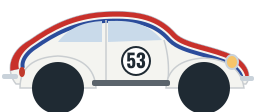
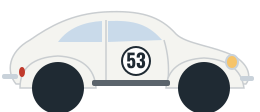
Remove Herbie's stripes and add a drive_on setting
Herbie's racing stripes run over the middle of the top, so they do not
show from the side. The car is now plain white with the number 53 on
the door.

drive_on in town.json sets which side of the road cars drive on:
"right" (the default, as before) or "left". With "left", the near
lane drives right to left and the far lane left to right. The README
previews follow the setting.

Claude-Session: https://claude.ai/code/session_01F1XyeJbkdn1kDtDDVeB88k

Changed region(s): [[0.0308, 0.0804, 0.9846, 0.6964]]

diff --git a/tools/riverside/sprites.py b/tools/riverside/sprites.py
@@ -272,22 +272,14 @@ def write(out):
                 + wells([(66, 84), (232, 84)], 24))
     save(delorean, "0 0 300 106", 300, 106, "car_delorean.png")
 
-    # Herbie, the Love Bug from the Disney movies: a white VW Beetle with red,
-    # white, and blue racing stripes over the top and the number 53 in a circle on
-    # the door. The stripes are drawn as wide lines along the top edge of the body,
-    # cut off by the body shape, so only the side of each stripe shows. The left
-    # image is drawn again instead of mirrored, so the number does not read
-    # backward. A town must list it in "cars"; it is not on by default.
+    # Herbie, the Love Bug from the Disney movies: a white VW Beetle with the
+    # number 53 in a circle on the door. The racing stripes run over the middle of
+    # the top, so they do not show from the side. The left image is drawn again
+    # instead of mirrored, so the number does not read backward. A town must list it in "cars"; it is not on by default.
     def herbie(left):
         HB, HBD, CHROME = "#F4F4F0", "#C9CDD0", "#C9D2DA"
         body = "M16,84 C6,72 8,52 30,40 C50,26 72,14 104,12 C140,10 160,16 176,34 C186,44 214,46 234,56 C248,64 252,76 246,84 Z"
-        s = (f'<defs><clipPath id="herbie_body"><path d="{body}"/></clipPath></defs>'
-             f'<path d="{body}" fill="{HB}" stroke="{HBD}" stroke-width="1.5"/>'
-             # The red, white, and blue stripes over the top, seen from the side
-             f'<g clip-path="url(#herbie_body)" fill="none">'
-             f'<path d="M14,70 C10,52 30,40 30,40 C50,26 72,14 104,12 C140,10 160,16 176,34 C186,44 214,46 234,56 C248,64 252,76 250,80" stroke="#2B4C9B" stroke-width="22"/>'
-             f'<path d="M14,70 C10,52 30,40 30,40 C50,26 72,14 104,12 C140,10 160,16 176,34 C186,44 214,46 234,56 C248,64 252,76 250,80" stroke="{HB}" stroke-width="14"/>'
-             f'<path d="M14,70 C10,52 30,40 30,40 C50,26 72,14 104,12 C140,10 160,16 176,34 C186,44 214,46 234,56 C248,64 252,76 250,80" stroke="#C8312B" stroke-width="10"/></g>'
+        s = (f'<path d="{body}" fill="{HB}" stroke="{HBD}" stroke-width="1.5"/>'
              f'<path d="M58,42 C68,28 84,22 102,21 L102,42 Z" fill="{GLASS}"/>'
              f'<path d="M108,21 C134,20 148,24 162,40 L108,42 Z" fill="{GLASS}"/>'
              f'<path d="M106,20 L106,80 M164,40 Q170,60 168,80" stroke="{HBD}" stroke-width="1.5" fill="none"/>'

diff --git a/tools/riverside/previews.py b/tools/riverside/previews.py
@@ -119,8 +119,10 @@ def preview(town, layers, images, pal, season, hour, temp, cond, section, fx=Non
     cars = town["cars"]
     far_car = "truck" if "truck" in cars else cars[-1]
     near_car = near_car if near_car in cars else cars[0]
-    paste_car(im, images, far_car, 1150, 1002, 0.86, left=True)
-    paste_car(im, images, near_car, 420, 1072, 1.0)
+    # With drive_on "right", the near lane drives to the right and the far lane to the left
+    near_left = town["drive_on"] == "left"
+    paste_car(im, images, far_car, 1150, 1002, 0.86, left=not near_left)
+    paste_car(im, images, near_car, 420, 1072, 1.0, left=near_left)
     if fx and (fx != "leaves" or town["extras"]["falling_leaves"]):
         im.alpha_composite(Image.open(os.path.join(images, f"{fx}.png")).convert("RGBA").resize((1920, 1080)))
     # The panel at its first position in m.infoSpots

diff --git a/tools/generate_images.py b/tools/generate_images.py
@@ -96,6 +96,7 @@ def runtime_config(town, images):
         "title": town["title"], "lat": str(town["lat"]), "lon": str(town["lon"]),
         "temperatureUnit": "celsius" if town["temperature"] == "C" else "fahrenheit",
         "clock24": town["clock"] == "24h", "hemisphere": town["hemisphere"],
+        "driveOn": town["drive_on"],
         "sections": len(town["sections"]), "cars": town["cars"], "pets": pets,
         "parkedCarX": town["parked_car_x"], "radioLight": radio_light(town),
         "airplane": ex["airplane"], "fireflies": ex["fireflies"], "fallingLeaves": ex["falling_leaves"],

diff --git a/tools/riverside/config.py b/tools/riverside/config.py
@@ -160,6 +160,7 @@ def fill(data):
     town["temperature"] = units.get("temperature", "F")
     town["clock"] = units.get("clock", "12h")
     town["hemisphere"] = data.get("hemisphere", "north")
+    town["drive_on"] = data.get("drive_on", "right")
     town["cars"] = data.get("cars", CARS)
     town["extras"] = dict(EXTRAS, **data.get("extras", {}))
     # The radio station on the hill beside the river

diff --git a/README.md b/README.md
@@ -44,7 +44,7 @@ These images are drawn by `tools/generate_images.py` from the same artwork the s
 - Six cars: a sports car in the style of a Bugatti, a sedan, a VW dune buggy with a green arch over the seats, a van, a Jeep, and an old truck. Each has its own speed, and the wheels spin at a rate that matches it. The sports car is the fastest. `town.json` can choose which cars drive by, and can add two more cars: the DeLorean time machine from the first Back to the Future movie, and Herbie, the Love Bug.
 - As options: bikes parked in front of shops and in bike racks, two bikes parked on the hills in the background, old-fashioned street lights that light up at dusk and night, and a radio station on the hill beside the river, with a tall red tower whose light blinks at dusk and night.
 - Cats, dogs, and guinea pigs on the sidewalk, chosen in `town.json`. Cats come in five colors and two sizes, and there are eight kinds of dogs. They are placed at random spots each time the screensaver starts.
-- Two lanes. The near lane drives left to right at full size. The far lane drives right to left and draws the cars slightly smaller.
+- Two lanes. The near lane draws the cars at full size, and the far lane draws them slightly smaller. Cars drive on the right by default, so the near lane drives left to right and the far lane right to left. `drive_on` in `town.json` can make them drive on the left instead.
 - A small Cessna airplane flies across the sky about every 1 to 3 minutes, in either direction. It flies at the distance of the far mountains, so it is small and its speed matches that distance: it takes about 17 seconds to cross the screen. At dusk and night its wingtip light is on, green when it flies right and red when it flies left, as on a real plane (green is on the right wingtip and red on the left). A white tail light blinks. At night both lights are brighter, with a wider glow. It does not fly in rain, snow, fog, or thunderstorms.
 - Weather from [Open-Meteo](https://open-meteo.com/), refreshed every 15 minutes, in Fahrenheit or Celsius. No API key is needed.
 - A 12 hour or 24 hour clock.
@@ -145,11 +145,12 @@ Only `location` is required. The [town.json](town.json) in this repository is a 
 | `units.temperature` | `"F"` or `"C"` | `"F"` |
 | `units.clock` | `"12h"` or `"24h"` | `"12h"` |
 | `hemisphere` | `"north"` or `"south"`. In the south, the seasons are the other way around. | `"north"` |
+| `drive_on` | Which side of the road cars drive on: `"right"` (as in the United States) or `"left"` (as in the United Kingdom). With `"right"`, cars in the near lane drive from left to right; with `"left"`, from right to left. | `"right"` |
 | `buildings` | The buildings along the street, from left to right. See below. | none |
 | `houses` | House numbers to spread out between the buildings, for example `["12", "14", "16"]` | none |
 | `radio_station` | A radio station on the hill beside the river, smaller than the town buildings, like the kayaks. It is a 1940s brick broadcast building with a rounded center, a wall of windows, a door on each side, and antennas, with a tall red lattice tower behind it and to its right. The light on top of the tower blinks at dusk and night, like the airplane's tail light. The call letters are slanted red letters with a black outline and shadow. Like the WSQK logo, the first Q is drawn as an O with a lightning bolt for its tail. It is an object with `name` (the call letters, required), `small_line` (a line in script below them, for example `"The Squawk"`), `power` (shown as "50,000 WATTS" on each side of the call letters), `letter_color`, `color` (the brick), and `tower` (default `true`). | none |
 | `pets` | Animals on the sidewalk, for example `{ "type": "cat", "color": "tabby", "size": "small" }`. Cats can be `"black"`, `"gray"` (dark gray with darker stripes), `"tabby"`, `"white"`, or `"gray_white"` (gray with a white chest, muzzle, and paws). Dogs (`"dog"`) can be `"yellow_lab"`, `"black_lab"`, `"chocolate_lab"`, `"beagle"`, `"corgi"`, `"dalmatian"`, `"dachshund"`, or `"husky"`. Guinea pigs (`"guinea_pig"`) can be `"black_orange"` or `"white_orange"`. `size` is `"regular"` (the default) or `"small"`, which is 0.65 times as big. Up to 10. | none |
-| `cars` | Which cars drive by: `"sedan"`, `"van"`, `"jeep"`, `"truck"`, `"sports"`, `"buggy"`, `"delorean"` (the DeLorean time machine from the first Back to the Future movie), and `"herbie"` (Herbie, the Love Bug: a white VW Beetle with racing stripes and the number 53). At least 2. The DeLorean and Herbie drive by only when they are in the list. | the first six |
+| `cars` | Which cars drive by: `"sedan"`, `"van"`, `"jeep"`, `"truck"`, `"sports"`, `"buggy"`, `"delorean"` (the DeLorean time machine from the first Back to the Future movie), and `"herbie"` (Herbie, the Love Bug: a white VW Beetle with the number 53 on the door). At least 2. The DeLorean and Herbie drive by only when they are in the list. | the first six |
 | `extras.airplane` | The airplane | `true` |
 | `extras.kayaks` | The kayaks beside the river | `true` |
 | `extras.fireflies` | Fireflies on summer nights | `true` |

diff --git a/AGENTS.md b/AGENTS.md
@@ -66,7 +66,8 @@ These apply to code, comments, commit messages, README.md, and this file.
 
 ## Scene behavior to keep consistent
 
-- `m.cameraSpeed` must equal the `town` value in `m.layerSpeeds`. A car's on-screen speed is its `ground` speed minus the camera speed in the near lane (moving right) and plus the camera speed in the far lane (moving left).
+- `m.cameraSpeed` must equal the `town` value in `m.layerSpeeds`. A car's on-screen speed is its `ground` speed minus the camera speed when it moves right and plus the camera speed when it moves left.
+- `drive_on` in `town.json` (`driveOn` in `town_config.json`) sets the side of the road. With `"right"` (the default), the near lane moves right and the far lane moves left. With `"left"`, the directions are the other way around. `spawnCar()` in `MainScene.brs` and `preview()` in `previews.py` both follow it.
 - `town.json` can turn cars off. `m.carDefs` holds only the cars that are on. The schema requires at least 2 cars.
 - The DeLorean (`delorean`) is the time machine from the first Back to the Future movie. It is not in the default car list (`CARS` in `config.py` and `cars` in `loadTownConfig()`), so a town must list it to turn it on. Herbie (`herbie`), the Love Bug, is the same: not on by default. Do not add either one to the sample `town.json`, because the sample has no real references. Herbie's left image (`car_herbie_left.png`) is drawn again instead of mirrored, so the number 53 on the door does not read backward.
 - Car ground speeds are ordered on purpose: the sports car fastest by a clear amount, then the DeLorean, then the sedan, then Herbie, then the VW buggy, then the van and Jeep, then the old truck slowest. Keep that order unless the owner asks for a change.
